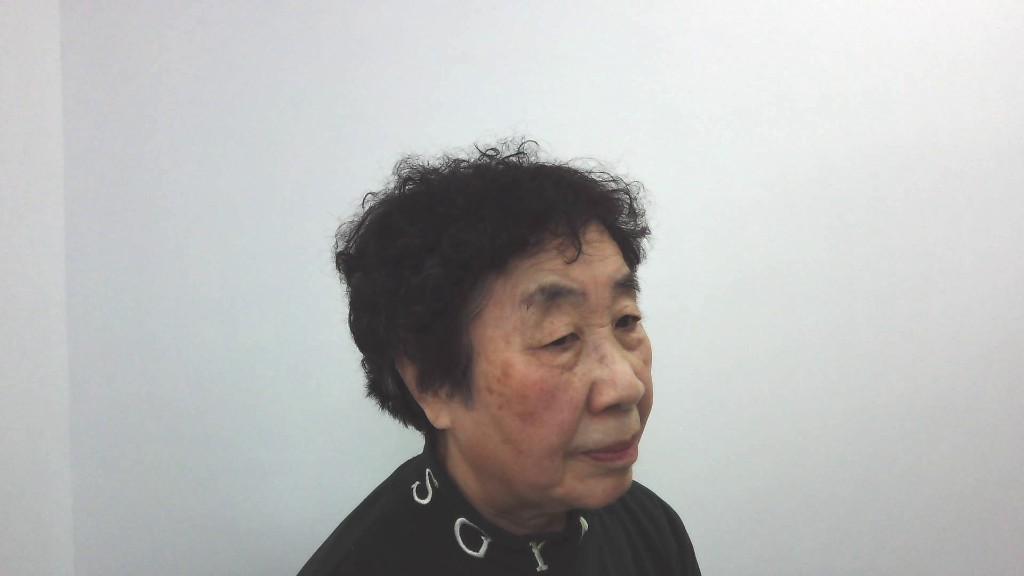
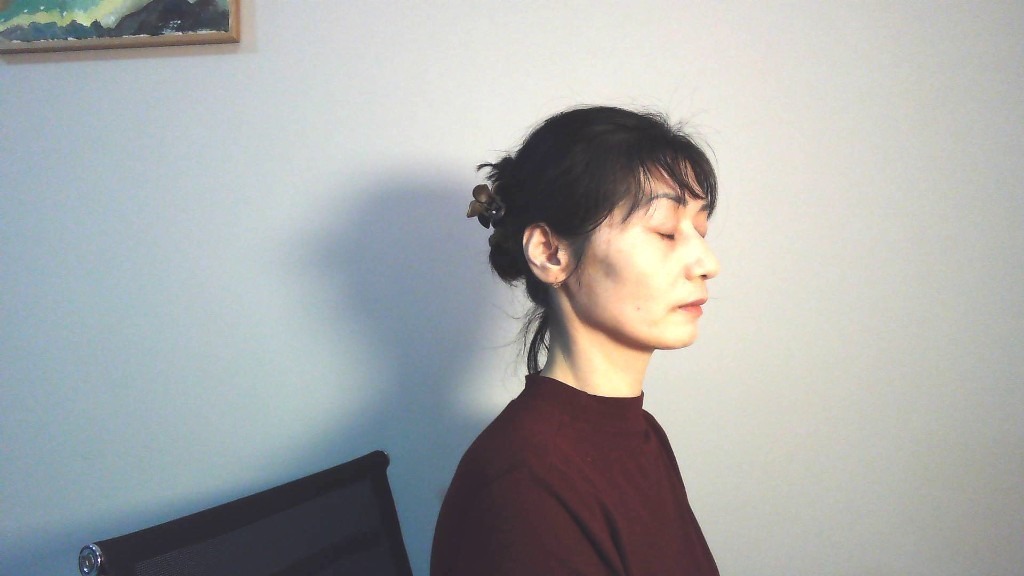
可选结果演示+前端页面微调

diff --git a/nutri_front/src/App.vue b/nutri_front/src/App.vue
@@ -68,6 +68,8 @@ const nrs2002Result = ref(null)
 const mnaSFResult = ref(null)
 const imageResult = ref(null)
 const glimResult = ref(null)
+// 综合结果页的勾选状态只用于当前前端会话，不写入草稿。
+const finalResultSelection = reactive({ nrs2002: false, mnaSF: false, image: false, glim: false })
 
 const patientReady = computed(() => Boolean(patientInfo.age && patientInfo.height))
 const step1VisibleMonths = [0, 1, 2, 3]
@@ -81,6 +83,12 @@ const step2Ready = computed(() => patientReady.value && step2RequiredMonths.ever
 const step4Ready = computed(() => patientReady.value && step4RequiredMonths.every((month) => weightRecords[String(month)]))
 const hasDraftImage = computed(() => Object.values(draftData.images || {}).some((item) => item?.saved))
 const canSubmitImage = computed(() => hasDraftImage.value && pendingImageUploads.value === 0 && !imageLoading.value)
+const finalResultOptions = computed(() => [
+  { key: 'nrs2002', label: 'NRS-2002 营养风险筛查', visible: Boolean(nrs2002Result.value) },
+  { key: 'mnaSF', label: 'MNA-SF 微型营养评估', visible: Boolean(mnaSFResult.value && !skippedMnaSF.value) },
+  { key: 'image', label: '面部图像筛查', visible: Boolean(imageResult.value) },
+  { key: 'glim', label: 'GLIM 营养不良评定', visible: Boolean(glimResult.value) },
+])
 
 function replaceDraftData(nextDraft) {
   Object.assign(draftData, emptyDraft(), nextDraft || {})
@@ -294,6 +302,10 @@ async function submitPrediction() {
   }
 }
 
+async function resetFinalResultSelection() {
+  Object.assign(finalResultSelection, { nrs2002: false, mnaSF: false, image: false, glim: false })
+}
+
 async function resetAll() {
   try {
     const response = await fetch(`${API_BASE}/draft`, { method: 'DELETE' })
@@ -310,6 +322,7 @@ async function resetAll() {
   imageError.value = ''
   clearToken.value += 1
   resetToken.value += 1
+  resetFinalResultSelection()
   currentStep.value = 1
 }
 
@@ -447,29 +460,39 @@ function percent(value) {
     </section>
 
     <section v-if="currentStep === 5" class="step-panel">
+      <section class="final-result-selector" aria-label="选择要查看的综合结果">
+        <label v-for="option in finalResultOptions.filter((item) => item.visible)" :key="option.key" class="final-result-check">
+          <input v-model="finalResultSelection[option.key]" type="checkbox" />
+          <span>{{ option.label }}</span>
+        </label>
+        <p>请勾选需要查看的评估结果</p>
+      </section>
+
       <div class="final-results-grid">
-        <section v-if="nrs2002Result" class="assessment-result" :class="nrs2002Result.has_risk ? 'risk' : 'good'">
+        <section v-if="nrs2002Result && finalResultSelection.nrs2002" class="assessment-result" :class="nrs2002Result.has_risk ? 'risk' : 'good'">
           <div class="score-hero"><span>NRS-2002</span><strong>{{ nrs2002Result.total_score }}</strong><em>{{ nrs2002Result.risk_level }}</em></div>
           <div class="result-metrics three"><div><span>营养状态受损</span><strong>{{ nrs2002Result.nutrition_score }}分</strong></div><div><span>疾病严重程度</span><strong>{{ nrs2002Result.disease_score }}分</strong></div><div><span>年龄</span><strong>{{ nrs2002Result.age_score }}分</strong></div></div>
           <p class="message-text">{{ nrs2002Result.message }}</p>
         </section>
 
-        <section v-if="mnaSFResult && !skippedMnaSF" class="assessment-result" :class="mnaSFResult.level === '营养正常' ? 'good' : mnaSFResult.level === '营养不良风险' ? 'caution' : 'risk'">
+        <section v-if="mnaSFResult && !skippedMnaSF && finalResultSelection.mnaSF" class="assessment-result" :class="mnaSFResult.level === '营养正常' ? 'good' : mnaSFResult.level === '营养不良风险' ? 'caution' : 'risk'">
           <div class="score-hero"><span>MNA-SF</span><strong>{{ mnaSFResult.total_score }}/14</strong><em>{{ mnaSFResult.level }}</em></div>
           <div class="progress-track"><span class="progress-fill success" :style="{ width: `${Math.min(100, mnaSFResult.total_score / 14 * 100)}%` }"></span></div>
           <p class="message-text">{{ mnaSFResult.message }}</p>
         </section>
 
-        <ResultPanel v-if="imageResult" :result="imageResult" :show-actions="false" />
+        <ResultPanel v-if="imageResult && finalResultSelection.image" :result="imageResult" :show-actions="false" />
 
-        <section v-if="glimResult" class="assessment-result" :class="glimResult.is_malnourished ? 'risk' : 'good'">
+        <section v-if="glimResult && finalResultSelection.glim" class="assessment-result" :class="glimResult.is_malnourished ? 'risk' : 'good'">
           <div class="score-hero"><span>GLIM</span><strong>{{ glimResult.is_malnourished ? '营养不良' : '未诊断营养不良' }}</strong><em v-if="glimResult.severity">{{ glimResult.severity }}</em></div>
           <div class="criteria-columns"><div><h3>表型标准</h3><span v-for="item in glimResult.phenotypic_criteria_triggered" :key="item" class="tag-pill">{{ item }}</span><p v-if="!glimResult.phenotypic_criteria_triggered.length">未触发</p></div><div><h3>病因标准</h3><div v-for="group in formatEtiologicalCriteria(glimResult.etiological_criteria_triggered)" :key="group.title" class="criteria-group"><h4>{{ group.title }}</h4><span v-for="option in group.options" :key="`${group.title}-${option}`" class="tag-pill">{{ option }}</span></div><p v-if="!glimResult.etiological_criteria_triggered.length">未触发</p></div></div>
           <div class="result-metrics three"><div><span>6个月内体重丢失</span><strong>{{ glimResult.weight_loss_6m_pct }}%</strong></div><div><span>6个月以上体重丢失</span><strong>{{ glimResult.weight_loss_over6m_pct }}%</strong></div><div><span>BMI</span><strong>{{ glimResult.bmi }}</strong></div></div>
           <p class="message-text">{{ glimResult.message }}</p>
         </section>
       </div>
-      <div class="step-actions">
+      <div class="step-actions split-actions">
+        <button class="secondary-button" type="button" @click="goPrevious">上一步</button>
+        <span class="action-spacer"></span>
         <button class="secondary-button" type="button" @click="resetAll">重新开始</button>
       </div>
     </section>
@@ -556,8 +579,14 @@ function percent(value) {
 .step-actions {
   display: flex;
   flex-wrap: wrap;
+  align-items: center;
   justify-content: flex-end;
   gap: 12px;
+}
+
+/* 全局 secondary-button 带有顶部间距，步骤底部按钮需要同一水平线对齐。 */
+.step-actions .secondary-button {
+  margin-top: 0;
 }
 
 .split-actions {
@@ -576,10 +605,52 @@ function percent(value) {
   margin-top: 0;
 }
 
+.final-result-selector {
+  display: flex;
+  flex-wrap: wrap;
+  align-items: center;
+  gap: 12px 18px;
+  padding: 16px;
+  border: 1px solid #dceaf2;
+  border-radius: 8px;
+  background: #fff;
+}
+
+.final-result-check {
+  display: inline-flex;
+  align-items: center;
+  gap: 8px;
+  color: #263746;
+  font-size: 14px;
+  font-weight: 800;
+}
+
+.final-result-check input {
+  width: 16px;
+  height: 16px;
+  accent-color: #1689a7;
+}
+
+.final-result-selector p {
+  flex-basis: 100%;
+  margin: 0;
+  color: #7a8795;
+  font-size: 13px;
+  font-weight: 700;
+}
+
 .final-results-grid {
   display: grid;
   grid-template-columns: repeat(2, minmax(0, 1fr));
+  align-items: stretch;
   gap: 18px;
+}
+
+/* 综合结果卡片统一作为网格项展示，避免 ResultPanel 的全局上边距造成错位。 */
+.final-results-grid > .assessment-result,
+.final-results-grid > .result-panel {
+  height: 100%;
+  margin-top: 0;
 }
 
 @media (max-width: 900px) {

diff --git a/nutri_front/src/config.js b/nutri_front/src/config.js
@@ -1,1 +1,1 @@
-export const API_BASE = 'https://atlantic-advancement-headquarters-filing.trycloudflare.com'
+export const API_BASE = 'https://agriculture-claimed-modified-lady.trycloudflare.com'